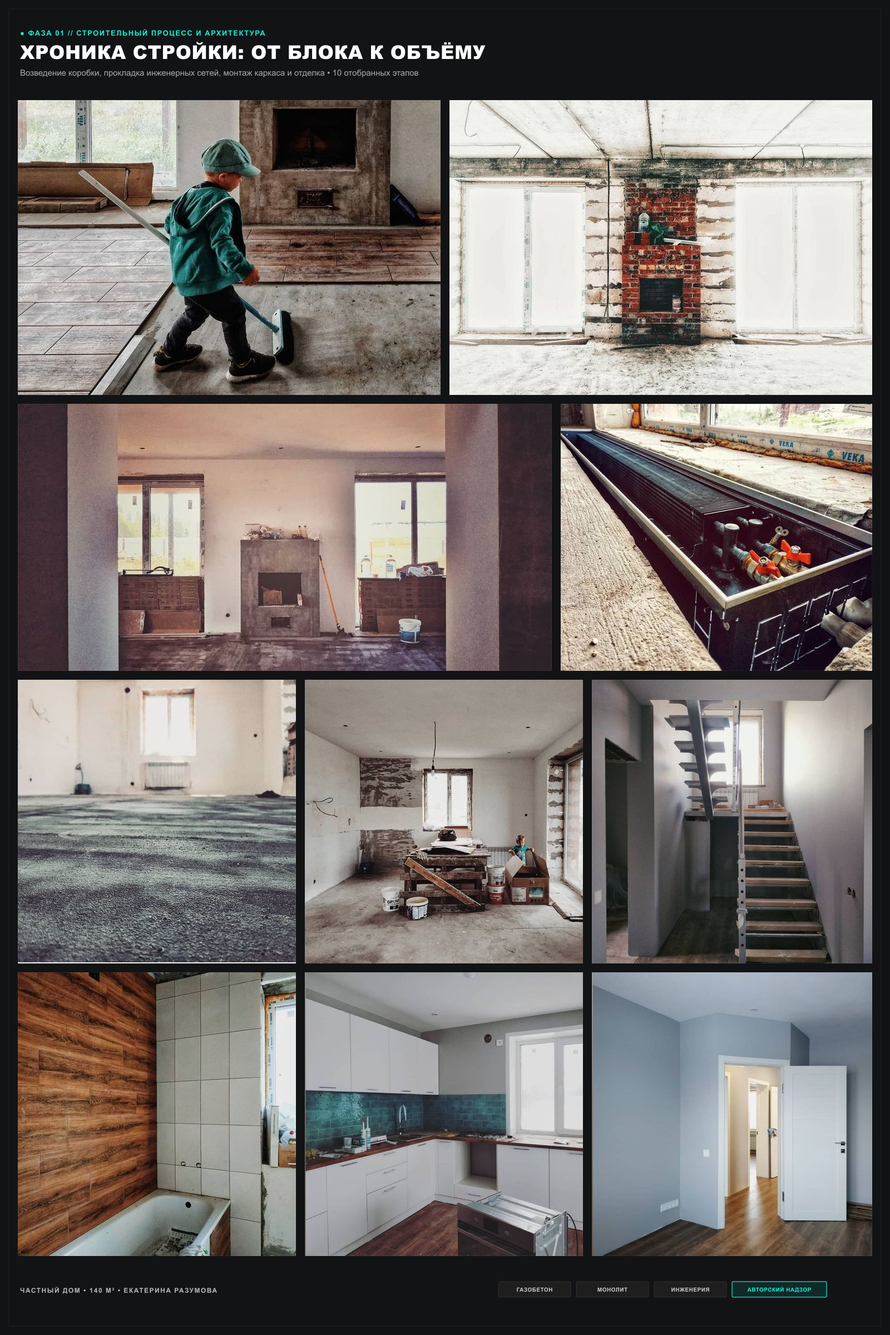
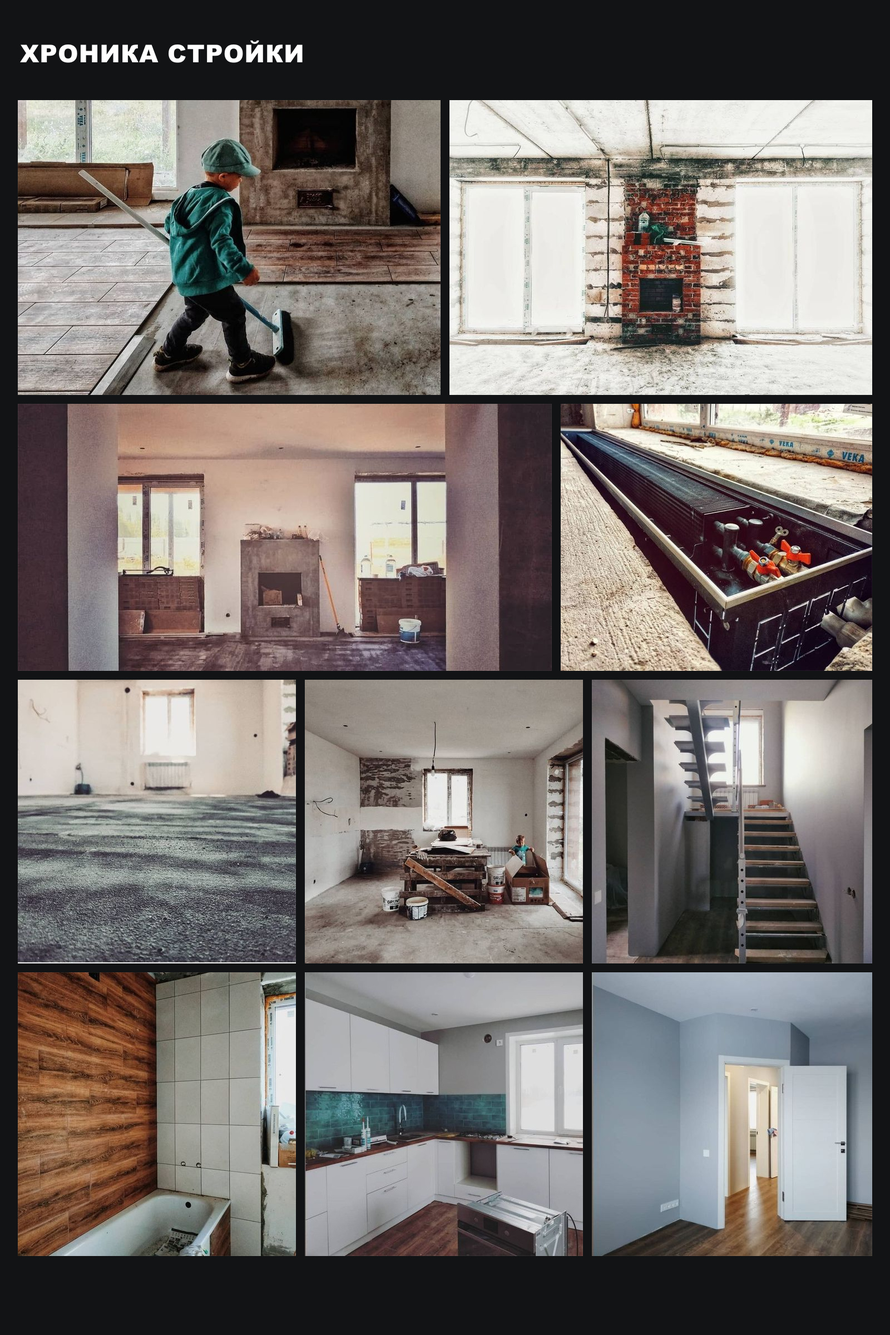
fix(house-case): remove fine print, 01/02 numbering, and clutter from diptych

Changed region(s): [[0.0312, 0.0312, 0.5312, 0.0625], [0.8438, 0.9375, 0.9062, 0.9688]]

diff --git a/components/cases/house-case.tsx b/components/cases/house-case.tsx
@@ -366,9 +366,6 @@ export function HouseCase() {
             <div className="bg-[#181818] border border-white/15 p-6 md:p-8 rounded-none shadow-2xl">
               <div className="flex flex-col sm:flex-row items-start sm:items-center justify-between gap-4 mb-6 border-b border-white/10 pb-4">
                 <div>
-                  <div className="text-xs font-montserrat font-bold uppercase tracking-wider text-[#14F1D9] mb-1">
-                    EDITORIAL DIPTYCH • SIDE-BY-SIDE COMPARISON
-                  </div>
                   <h3 className="text-xl sm:text-2xl font-black uppercase text-white font-montserrat">
                     Стройка и Реализация: Два мира одного дома
                   </h3>
@@ -389,7 +386,7 @@ export function HouseCase() {
                 >
                   <div className="flex items-center justify-between px-2 py-1.5 mb-2">
                     <span className="text-xs font-bold text-white font-montserrat uppercase tracking-wider">
-                      ● 01. Хроника стройки
+                      Хроника стройки
                     </span>
                     <span className="text-[10px] text-white/50 font-sans flex items-center gap-1 group-hover:text-white">
                       <Maximize2 className="w-3 h-3" /> Увеличить планшет
@@ -415,7 +412,7 @@ export function HouseCase() {
                 >
                   <div className="flex items-center justify-between px-2 py-1.5 mb-2">
                     <span className="text-xs font-bold text-[#14F1D9] font-montserrat uppercase tracking-wider">
-                      ● 02. Готовый дом в жизни
+                      Готовый дом в жизни
                     </span>
                     <span className="text-[10px] text-white/50 font-sans flex items-center gap-1 group-hover:text-[#14F1D9]">
                       <Maximize2 className="w-3 h-3" /> Увеличить планшет
@@ -736,9 +733,6 @@ export function HouseCase() {
             <div className="bg-[#181818] border border-white/15 p-6 md:p-8 rounded-none shadow-2xl">
               <div className="flex flex-col sm:flex-row items-start sm:items-center justify-between gap-4 mb-6 border-b border-white/10 pb-4">
                 <div>
-                  <div className="text-xs font-montserrat font-bold uppercase tracking-wider text-[#14F1D9] mb-1">
-                    EDITORIAL DIPTYCH • SIDE-BY-SIDE COMPARISON
-                  </div>
                   <h3 className="text-xl sm:text-2xl font-black uppercase text-white font-montserrat">
                     Стройка и Реализация: Два мира одного дома
                   </h3>
@@ -759,7 +753,7 @@ export function HouseCase() {
                 >
                   <div className="flex items-center justify-between px-2 py-1.5 mb-2">
                     <span className="text-xs font-bold text-white font-montserrat uppercase tracking-wider">
-                      ● 01. Хроника стройки
+                      Хроника стройки
                     </span>
                     <span className="text-[10px] text-white/50 font-sans flex items-center gap-1 group-hover:text-white">
                       <Maximize2 className="w-3 h-3" /> Увеличить планшет
@@ -785,7 +779,7 @@ export function HouseCase() {
                 >
                   <div className="flex items-center justify-between px-2 py-1.5 mb-2">
                     <span className="text-xs font-bold text-[#14F1D9] font-montserrat uppercase tracking-wider">
-                      ● 02. Готовый дом в жизни
+                      Готовый дом в жизни
                     </span>
                     <span className="text-[10px] text-white/50 font-sans flex items-center gap-1 group-hover:text-[#14F1D9]">
                       <Maximize2 className="w-3 h-3" /> Увеличить планшет
